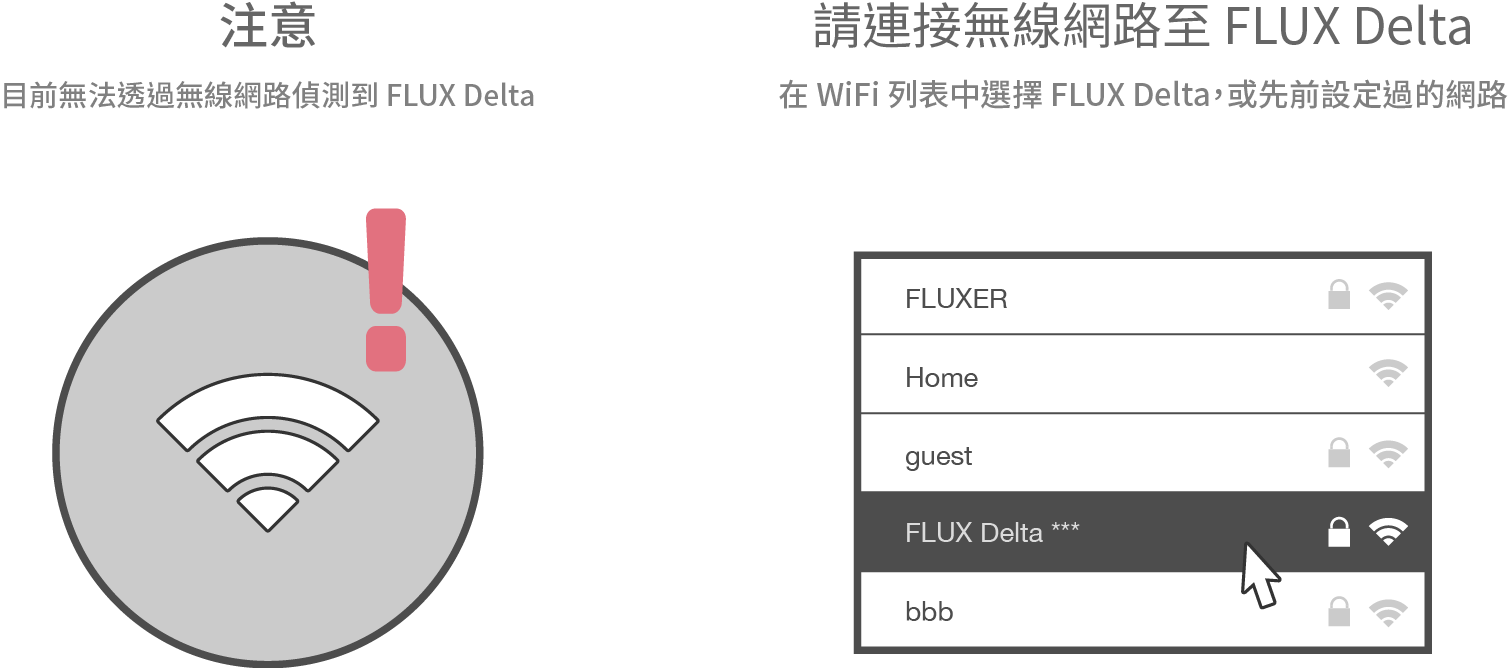
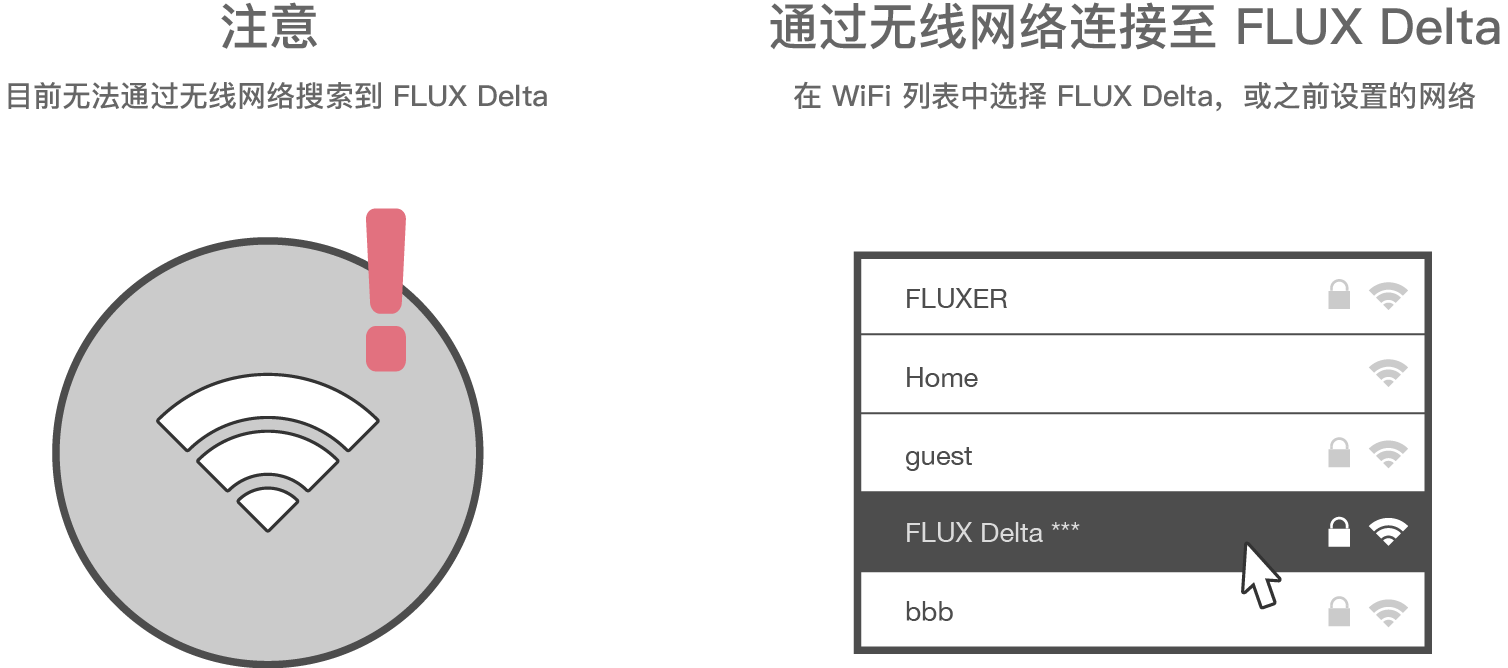
开头连接部分内容

diff --git a/public/js/app/lang/zh-cn.js b/public/js/app/lang/zh-cn.js
@@ -8,7 +8,7 @@ define(function() {
             osx_10_9: 'FLUX Studio 目前不支持 OS X 10.9，请升级至更新的版本。'
         },
         device_selection: {
-            no_printers: '无法通过 Wi-Fi 搜索到 FLUX Delta，请检查您与机器的网络连接是否在同一个内网 <a target="_blank" href="https://flux3dp.zendesk.com/hc/zh-tw/articles/215394548">了解更多</a>',
+            no_printers: '无法通过 Wi-Fi 搜索到 FLUX Delta，请检查您与机器的网络连接是否在同一个内网 <a target="_blank" href="https://flux3dp.zendesk.com/hc/zh-tw/articles/215394548">详细信息</a>',
             module: 'MODULE',
             status: 'STATUS'
         },
@@ -188,22 +188,22 @@ define(function() {
 
             // errors
             errors: {
-                error: '錯誤',
-                not_found: '無法找到 FLUX Delta',
+                error: '错误',
+                not_found: '无法找到 FLUX Delta',
                 not_support: '请更新 Delta 软件到 v1.1 以上',
 
                 keep_connect: {
-                    caption: '無法透過 USB 连接',
-                    content: '別擔心！请確認電源已被開啟及使用 Micro-Usb 连接机器，並正確安裝驅動程式。<a target="_blank" href="https://flux3dp.zendesk.com/hc/zh-tw/articles/215327328">瞭解更多</a>'
+                    caption: '无法通过 USB 连接',
+                    content: '别担心！请确认电源已开启以及使用 Micro-Usb 连接机器，并正确安装驱动程序。<a target="_blank" href="https://flux3dp.zendesk.com/hc/zh-tw/articles/215327328">详细信息</a>'
                 },
 
                 wifi_connection: {
-                    caption: '無法與此 Wi-Fi 連線',
-                    connecting_fail: '请確認信號強度以及密碼正確'
+                    caption: '无法连接此 Wi-Fi',
+                    connecting_fail: '请确认信号强度以及密码正确'
                 },
 
                 select_wifi: {
-                    ap_mode_fail: '基地台模式連線設定失敗'
+                    ap_mode_fail: '基地台模式设定失败'
                 }
             }
         },
@@ -887,23 +887,23 @@ define(function() {
             record                              : 'RECORD',
             camera                              : '監控',
             connecting                          : '連線中，请稍候',
-            HEAD_OFFLINE                        : '#110 沒有偵測到工具頭\n请確認工具頭傳輸線完整插入 <a target="_blank" href="https://flux3dp.zendesk.com/hc/zh-tw/articles/218183157">暸解更多</a>',
+            HEAD_OFFLINE                        : '#110 沒有偵測到工具頭\n请確認工具頭傳輸線完整插入 <a target="_blank" href="https://flux3dp.zendesk.com/hc/zh-tw/articles/218183157">详细信息</a>',
             HEAD_ERROR_CALIBRATING              : '#112 工具頭校正失誤\n请重新裝載工具頭，並確認磁鐵關節的附著',
-            HEAD_ERROR_FAN_FAILURE              : '#113 風扇無法轉動\n请嘗試用細針戳一下 <a target="_blank" href="https://flux3dp.zendesk.com/hc/zh-tw/articles/217732178">暸解更多</a>',
-            HEAD_ERROR_HEAD_OFFLINE             : '#110 沒有偵測到工具頭\n请確認工具頭傳輸線完整插入 <a target="_blank" href="https://flux3dp.zendesk.com/hc/zh-tw/articles/218183157">暸解更多</a>',
+            HEAD_ERROR_FAN_FAILURE              : '#113 風扇無法轉動\n请嘗試用細針戳一下 <a target="_blank" href="https://flux3dp.zendesk.com/hc/zh-tw/articles/217732178">详细信息</a>',
+            HEAD_ERROR_HEAD_OFFLINE             : '#110 沒有偵測到工具頭\n请確認工具頭傳輸線完整插入 <a target="_blank" href="https://flux3dp.zendesk.com/hc/zh-tw/articles/218183157">详细信息</a>',
             HEAD_ERROR_TYPE_ERROR               : '#111 偵測到錯誤工具頭\n请安裝正確的對應工具頭',
-            HEAD_ERROR_INTLK_TRIG               : '#116 偵測到雕刻工具頭傾斜\n请確認金屬棒正確連結，雕刻頭與握架緊密結合以繼續<a target="_blank" href="https://flux3dp.zendesk.com/hc/zh-tw/articles/217085937">瞭解更多</a>',
-            HEAD_ERROR_RESET                    : '#114 工具頭傳輸線接觸不良\n请確認工具頭傳輸線完整插入以繼續，如持續發生此問題，请聯繫 FLUX 客服 <a target="_blank" href="https://flux3dp.zendesk.com/hc/zh-tw/articles/218183167">暸解更多</a>',
+            HEAD_ERROR_INTLK_TRIG               : '#116 偵測到雕刻工具頭傾斜\n请確認金屬棒正確連結，雕刻頭與握架緊密結合以繼續<a target="_blank" href="https://flux3dp.zendesk.com/hc/zh-tw/articles/217085937">详细信息</a>',
+            HEAD_ERROR_RESET                    : '#114 工具頭傳輸線接觸不良\n请確認工具頭傳輸線完整插入以繼續，如持續發生此問題，请聯繫 FLUX 客服 <a target="_blank" href="https://flux3dp.zendesk.com/hc/zh-tw/articles/218183167">详细信息</a>',
             HEAD_ERROR_TILT                     : '#162 偵測到工具頭傾斜\n请確認球型關節正確附著以繼續',
             HEAD_ERROR_SHAKE                    : '#162 偵測到工具頭傾斜\n请確認球型關節正確附著以繼續',
-            HEAD_ERROR_HARDWARE_FAILURE         : '#164 工具頭溫度異常\n请聯繫 FLUX 客服<a target="_blank" href="https://flux3dp.zendesk.com/hc/zh-tw/articles/218415378">暸解更多</a>',
+            HEAD_ERROR_HARDWARE_FAILURE         : '#164 工具頭溫度異常\n请聯繫 FLUX 客服<a target="_blank" href="https://flux3dp.zendesk.com/hc/zh-tw/articles/218415378">详细信息</a>',
             'HEAD_ERROR_?'                      : '#199 Toolhead error\nCheck if the toolhead is abnormal',
-            HARDWARE_ERROR_FILAMENT_RUNOUT      : '#121 沒有偵測到線料\n请重新插入新的線料 <a target="_blank" href="https://flux3dp.zendesk.com/hc/zh-tw/articles/218931757">瞭解更多</a>',
-            HARDWARE_ERROR_0                    : '#121 沒有偵測到線料\n请重新插入新的線料 <a target="_blank" href="https://flux3dp.zendesk.com/hc/zh-tw/articles/218931757">瞭解更多</a>',
+            HARDWARE_ERROR_FILAMENT_RUNOUT      : '#121 沒有偵測到線料\n请重新插入新的線料 <a target="_blank" href="https://flux3dp.zendesk.com/hc/zh-tw/articles/218931757">详细信息</a>',
+            HARDWARE_ERROR_0                    : '#121 沒有偵測到線料\n请重新插入新的線料 <a target="_blank" href="https://flux3dp.zendesk.com/hc/zh-tw/articles/218931757">详细信息</a>',
             HARDWARE_ERROR_PLATE_MISSING        : '#122 沒有偵測到工作平台\n请放上工作平台金屬板',
-            HARDWARE_ERROR_ZPROBE_ERROR         : '#123 水平校正失敗\n请移除可能影響校正的物體（噴嘴殘料、工作平台上雜質）<a target="_blank" href="https://flux3dp.zendesk.com/hc/zh-tw/articles/218931767">暸解更多</a>',
-            HARDWARE_ERROR_CONVERGENCE_FAILED   : '#123 水平校正失敗\n请移除可能影響校正的物體（噴嘴殘料、工作平台上雜質）<a target="_blank" href="https://flux3dp.zendesk.com/hc/zh-tw/articles/218931767">暸解更多</a>',
-            HARDWARE_ERROR_HOME_FAILED          : '#124 原點校正失敗\n请排除軌道上異物，確定傳輸線不會被夾到 <a target="_blank" href="https://flux3dp.zendesk.com/hc/zh-tw/articles/218931807">暸解更多</a>',
+            HARDWARE_ERROR_ZPROBE_ERROR         : '#123 水平校正失敗\n请移除可能影響校正的物體（噴嘴殘料、工作平台上雜質）<a target="_blank" href="https://flux3dp.zendesk.com/hc/zh-tw/articles/218931767">详细信息</a>',
+            HARDWARE_ERROR_CONVERGENCE_FAILED   : '#123 水平校正失敗\n请移除可能影響校正的物體（噴嘴殘料、工作平台上雜質）<a target="_blank" href="https://flux3dp.zendesk.com/hc/zh-tw/articles/218931767">详细信息</a>',
+            HARDWARE_ERROR_HOME_FAILED          : '#124 原點校正失敗\n请排除軌道上異物，確定傳輸線不會被夾到 <a target="_blank" href="https://flux3dp.zendesk.com/hc/zh-tw/articles/218931807">详细信息</a>',
             HARDWARE_ERROR_MAINBOARD_ERROR      : '#401 主板沒有回應。请聯繫 FLUX 客服。',
             HARDWARE_ERROR_SUBSYSTEM_ERROR      : '#402 子系統沒有回應。请聯繫 FLUX 客服。',
             WRONG_HEAD                          : '请更換成列印工具頭',
@@ -914,8 +914,8 @@ define(function() {
             SUBSYSTEM_ERROR                     : '#402 子系統沒有回應。请聯繫 FLUX 客服。',
             HARDWARE_FAILURE                    : '裝置錯誤\n请重新啟動机器',
             MAINBOARD_OFFLINE                   : '裝置錯誤\n请重新啟動机器',
-            G28_FAILED                          : '#124 原點校正失敗\n请排除軌道上異物，並重新插拔工具頭连接線 <a target="_blank" href="https://flux3dp.zendesk.com/hc/zh-tw/articles/218931807">暸解更多</a>',
-            FILAMENT_RUNOUT_0                   : '#121 沒有偵測到線料\n请重新插入新的線料 <a target="_blank" href="https://flux3dp.zendesk.com/hc/zh-tw/articles/218931757">瞭解更多</a>',
+            G28_FAILED                          : '#124 原點校正失敗\n请排除軌道上異物，並重新插拔工具頭连接線 <a target="_blank" href="https://flux3dp.zendesk.com/hc/zh-tw/articles/218931807">详细信息</a>',
+            FILAMENT_RUNOUT_0                   : '#121 沒有偵測到線料\n请重新插入新的線料 <a target="_blank" href="https://flux3dp.zendesk.com/hc/zh-tw/articles/218931757">详细信息</a>',
             processing                          : '處理中',
             savingPreview                       : '正在產生預覽圖',
             hour                                : '小時',
@@ -1045,8 +1045,8 @@ define(function() {
                 '4': '#162 偵測到工具頭傾斜\n请確認球型關節正確附著以繼續',
                 '5': '#162 偵測到工具頭傾斜\n请確認球型關節正確附著以繼續',
                 '6': '#119 列印工具頭無法控制溫度，请聯繫 FLUX 客服。',
-                '7': '#113 風扇無法轉動\n请嘗試用細針戳一下 <a target="_blank" href="https://flux3dp.zendesk.com/hc/zh-tw/articles/217732178">暸解更多</a>',
-                '8': '#116 偵測到雕刻工具頭傾斜\n请確認金屬棒正確連結，雕刻頭與握架緊密結合以繼續<a target="_blank" href="https://flux3dp.zendesk.com/hc/zh-tw/articles/217085937">瞭解更多</a>',
+                '7': '#113 風扇無法轉動\n请嘗試用細針戳一下 <a target="_blank" href="https://flux3dp.zendesk.com/hc/zh-tw/articles/217732178">详细信息</a>',
+                '8': '#116 偵測到雕刻工具頭傾斜\n请確認金屬棒正確連結，雕刻頭與握架緊密結合以繼續<a target="_blank" href="https://flux3dp.zendesk.com/hc/zh-tw/articles/217085937">详细信息</a>',
                 '9': '#118 列印工具頭無法加溫，请聯繫 FLUX 客服。'
             }
         },
@@ -1066,7 +1066,7 @@ define(function() {
             auto_emerging: '请插入線料',
             maintain_head_type_error: '列印工具頭未正確安裝',
             maintain_zombie: '请重新啟動机器',
-            toolhead_no_response: '#117 列印模組沒有回應 <a target="_blank" href="https://flux3dp.zendesk.com/hc/zh-tw/articles/218347477">暸解更多</a>'
+            toolhead_no_response: '#117 列印模組沒有回應 <a target="_blank" href="https://flux3dp.zendesk.com/hc/zh-tw/articles/218347477">详细信息</a>'
         },
         input_machine_password: {
             require_password: '"%s" 需要密碼',
